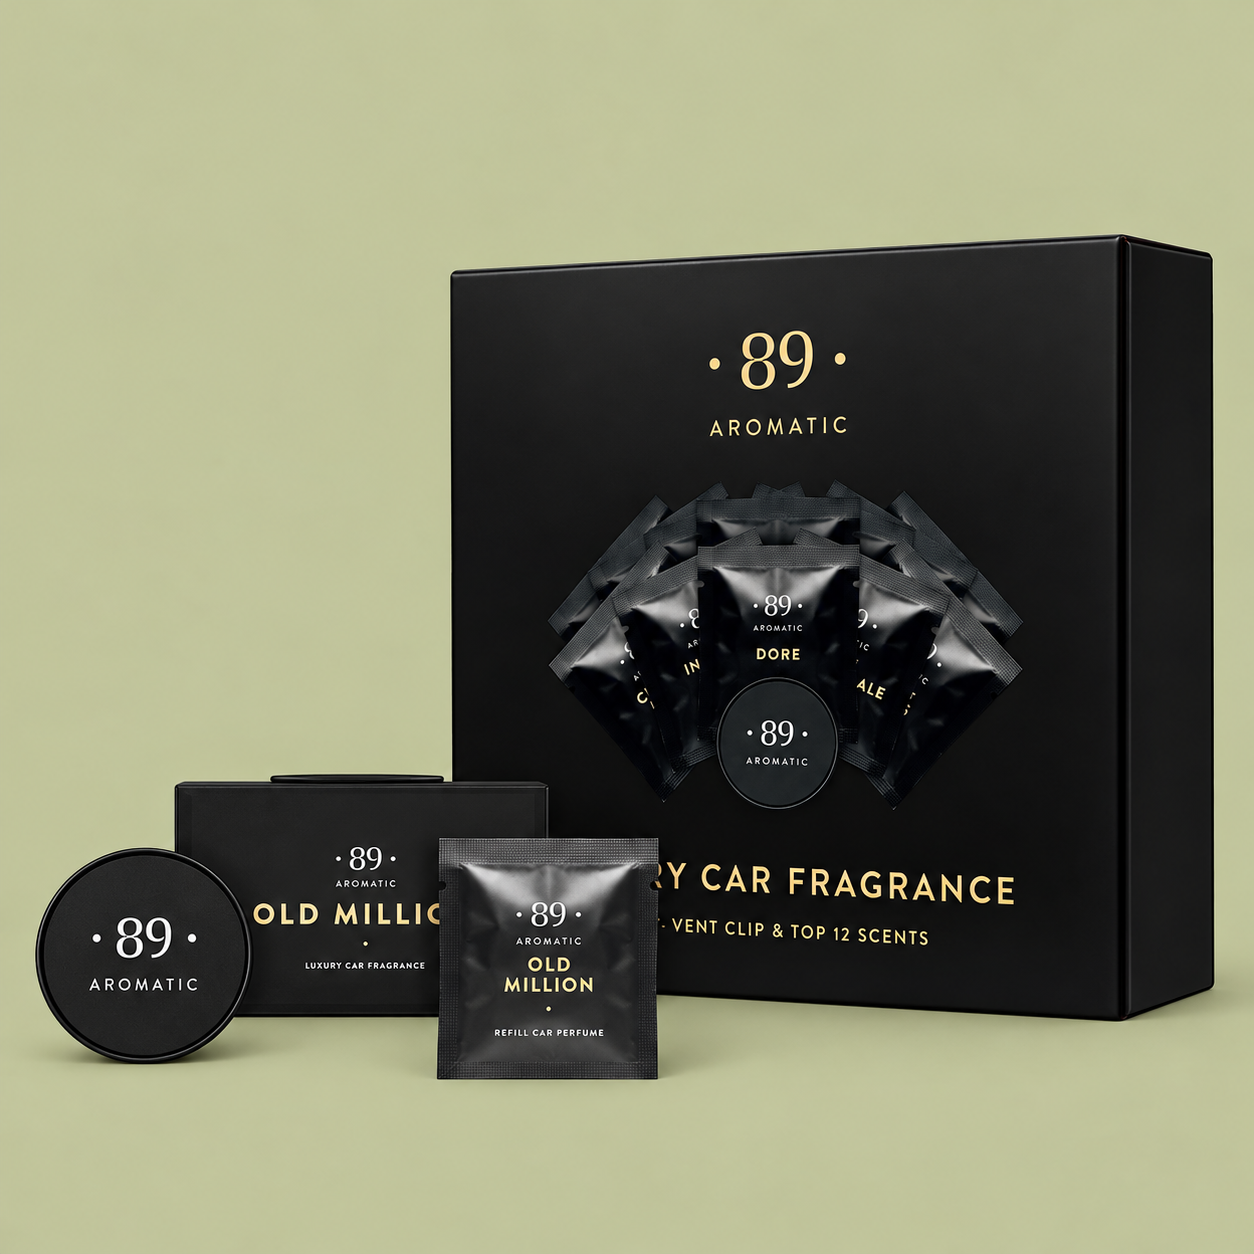
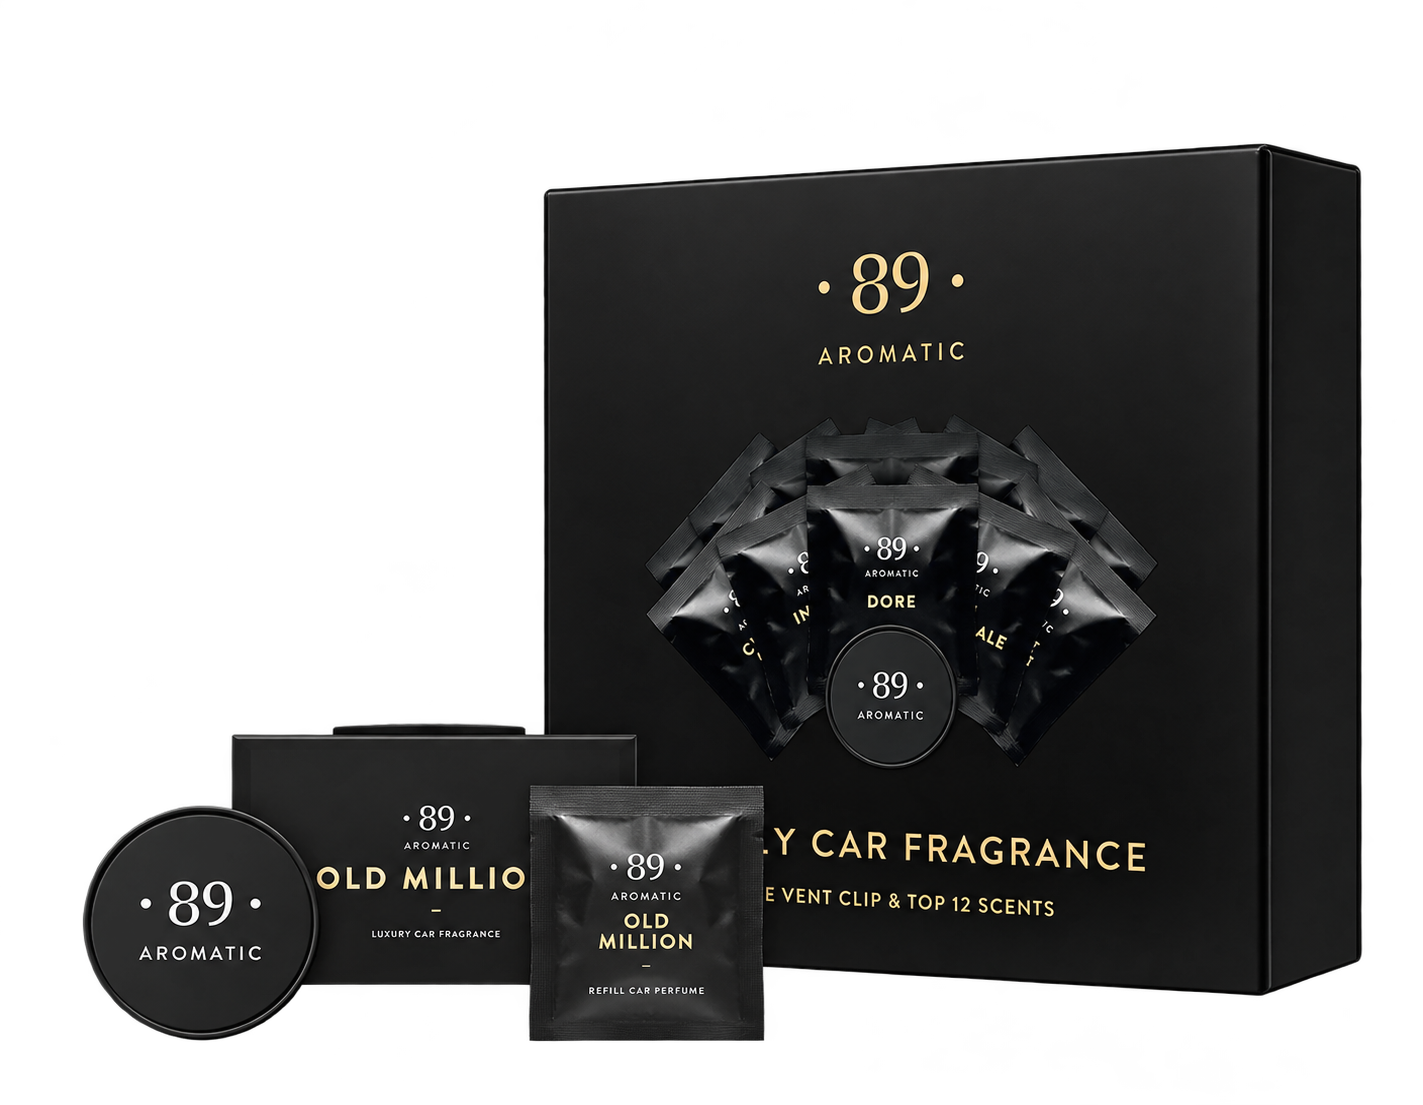
Use transparent shop product cutouts

diff --git a/app/globals.css b/app/globals.css
@@ -131,4 +131,4 @@ body,button,input,textarea,select{font-family:var(--font-jost),sans-serif}.wordm
 .showcase-panel>h3{text-align:center}
 .showcase-list{margin-top:14px}
 .shop{padding-top:48px}
-.product-stage{background:var(--sage)!important}.product-stage::before{display:none}.product-stage>img{width:100%;height:100%;display:block;object-fit:contain}.product-stage>span{z-index:1}
+.product-stage{background:#c6c89b47!important}.product-stage::before{display:none}.product-stage>img{width:100%;height:100%;display:block;object-fit:contain}.product-stage>span{z-index:1}
